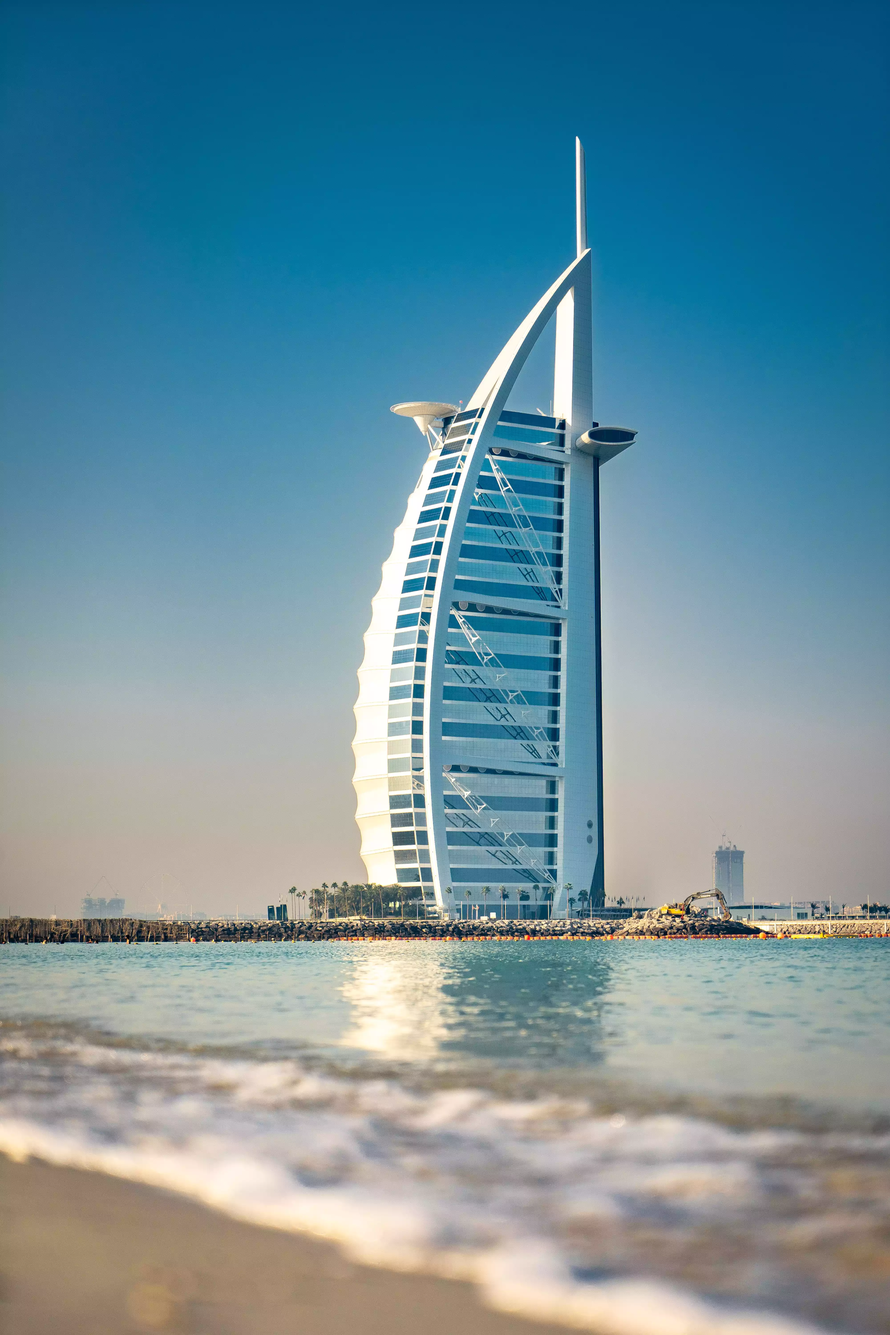
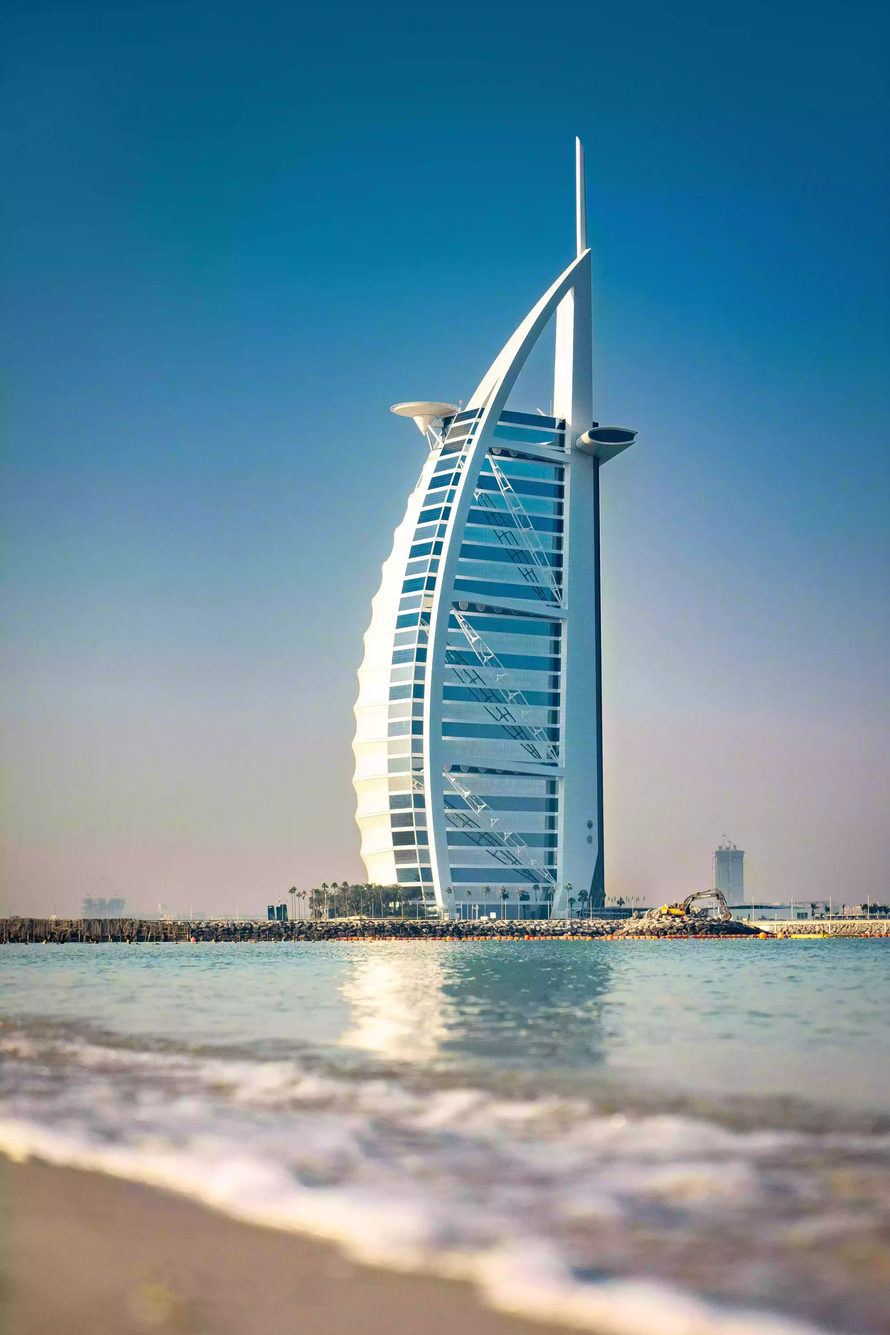
improved text visibilityy

Changed region(s): [[0.0625, 0.6545, 1.0, 0.7168]]

diff --git a/client/src/components/featured/Featured.tsx b/client/src/components/featured/Featured.tsx
@@ -12,12 +12,12 @@ const Featured = () => {
             {loading ? ("Loading") : (
             <>
             <div className="featuredItem">
-                <img src="images/cities/joseph-barrientos-jdswuUaDeKM-unsplash.avif" 
+                <img src="images/cities/pexels-fernando-garcia-9424954.webp" 
                 alt="Cancun from above next to the sea"
                 className="featuredImg"/>
                 <div className="featuredTitles">
                     <h1>Cancun</h1>
-                    <h1>{data[0]} properties</h1>
+                    <h1>{data[0]}7 properties</h1>
                 </div>
             </div>
             <div className="featuredItem">
@@ -26,7 +26,7 @@ const Featured = () => {
                 className="featuredImg"/>
                 <div className="featuredTitles">
                     <h1>London</h1>
-                    <h1>{data[1]} properties</h1>
+                    <h1>{data[1]}3 properties</h1>
                 </div>
             </div>
             <div className="featuredItem">
@@ -35,7 +35,7 @@ const Featured = () => {
                 className="featuredImg"/>
                 <div className="featuredTitles">
                     <h1>Dubai</h1>
-                    <h1>{data[2]} properties</h1>
+                    <h1>{data[2]}4 properties</h1>
                 </div>
             </div></>)}
 

diff --git a/client/src/components/featured/featured.css b/client/src/components/featured/featured.css
@@ -27,4 +27,5 @@
   position: absolute;
   bottom: 20px;
   left: 20px;
+  text-shadow: 0 0 1px black, 0 0 1px black, 0 0 1px black, 0 0 1px black;
 }/*# sourceMappingURL=featured.css.map */

diff --git a/client/src/components/featured/featured.scss b/client/src/components/featured/featured.scss
@@ -26,4 +26,5 @@
     position: absolute;
     bottom: 20px;
     left: 20px;
+    text-shadow: 0 0 1px black, 0 0 1px black, 0 0 1px black, 0 0 1px black;
   }
